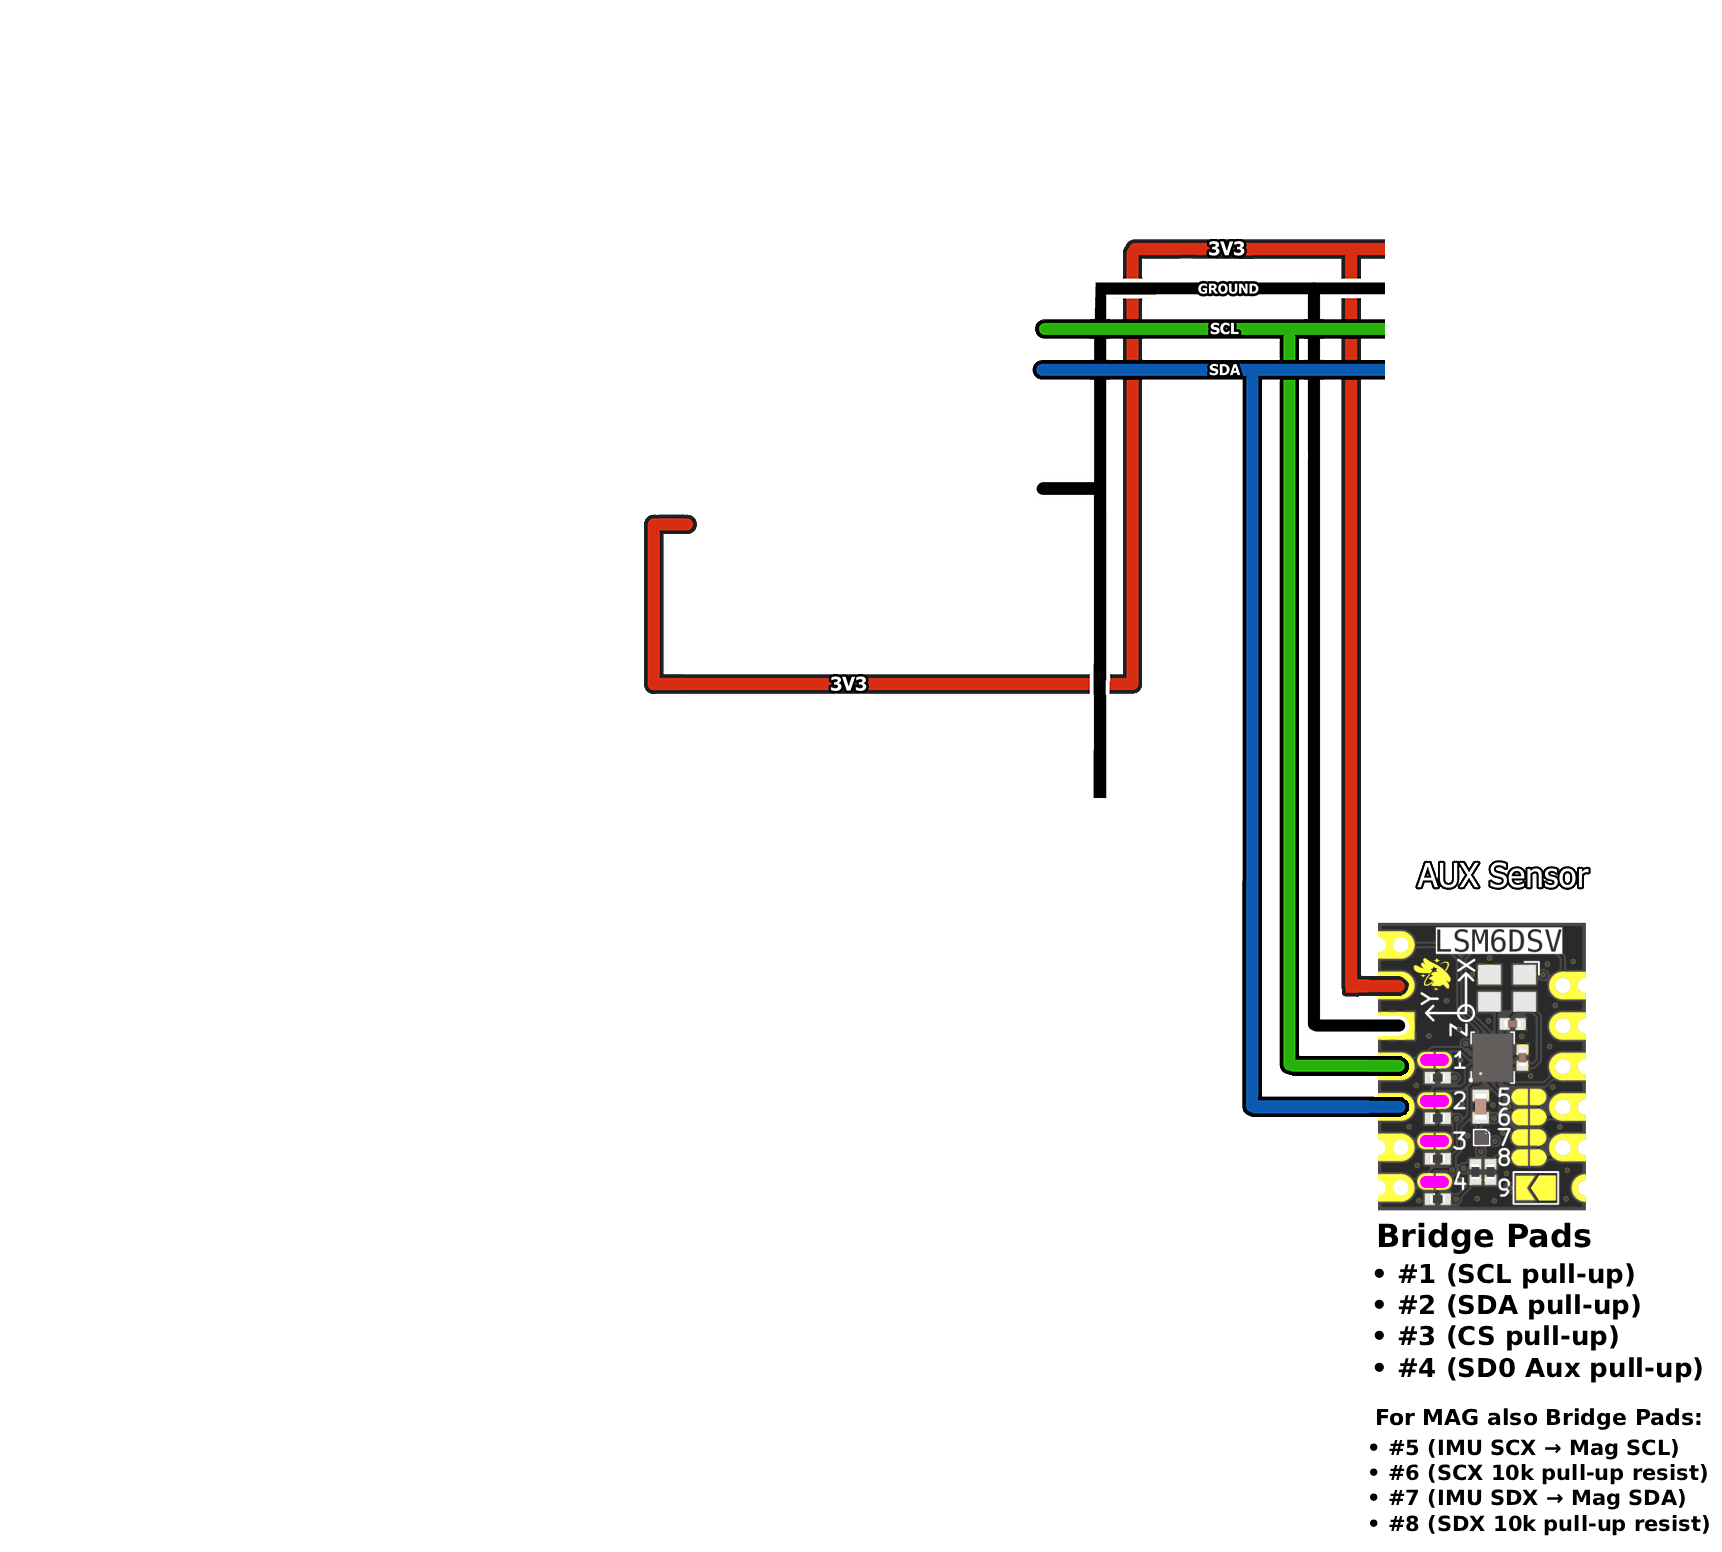
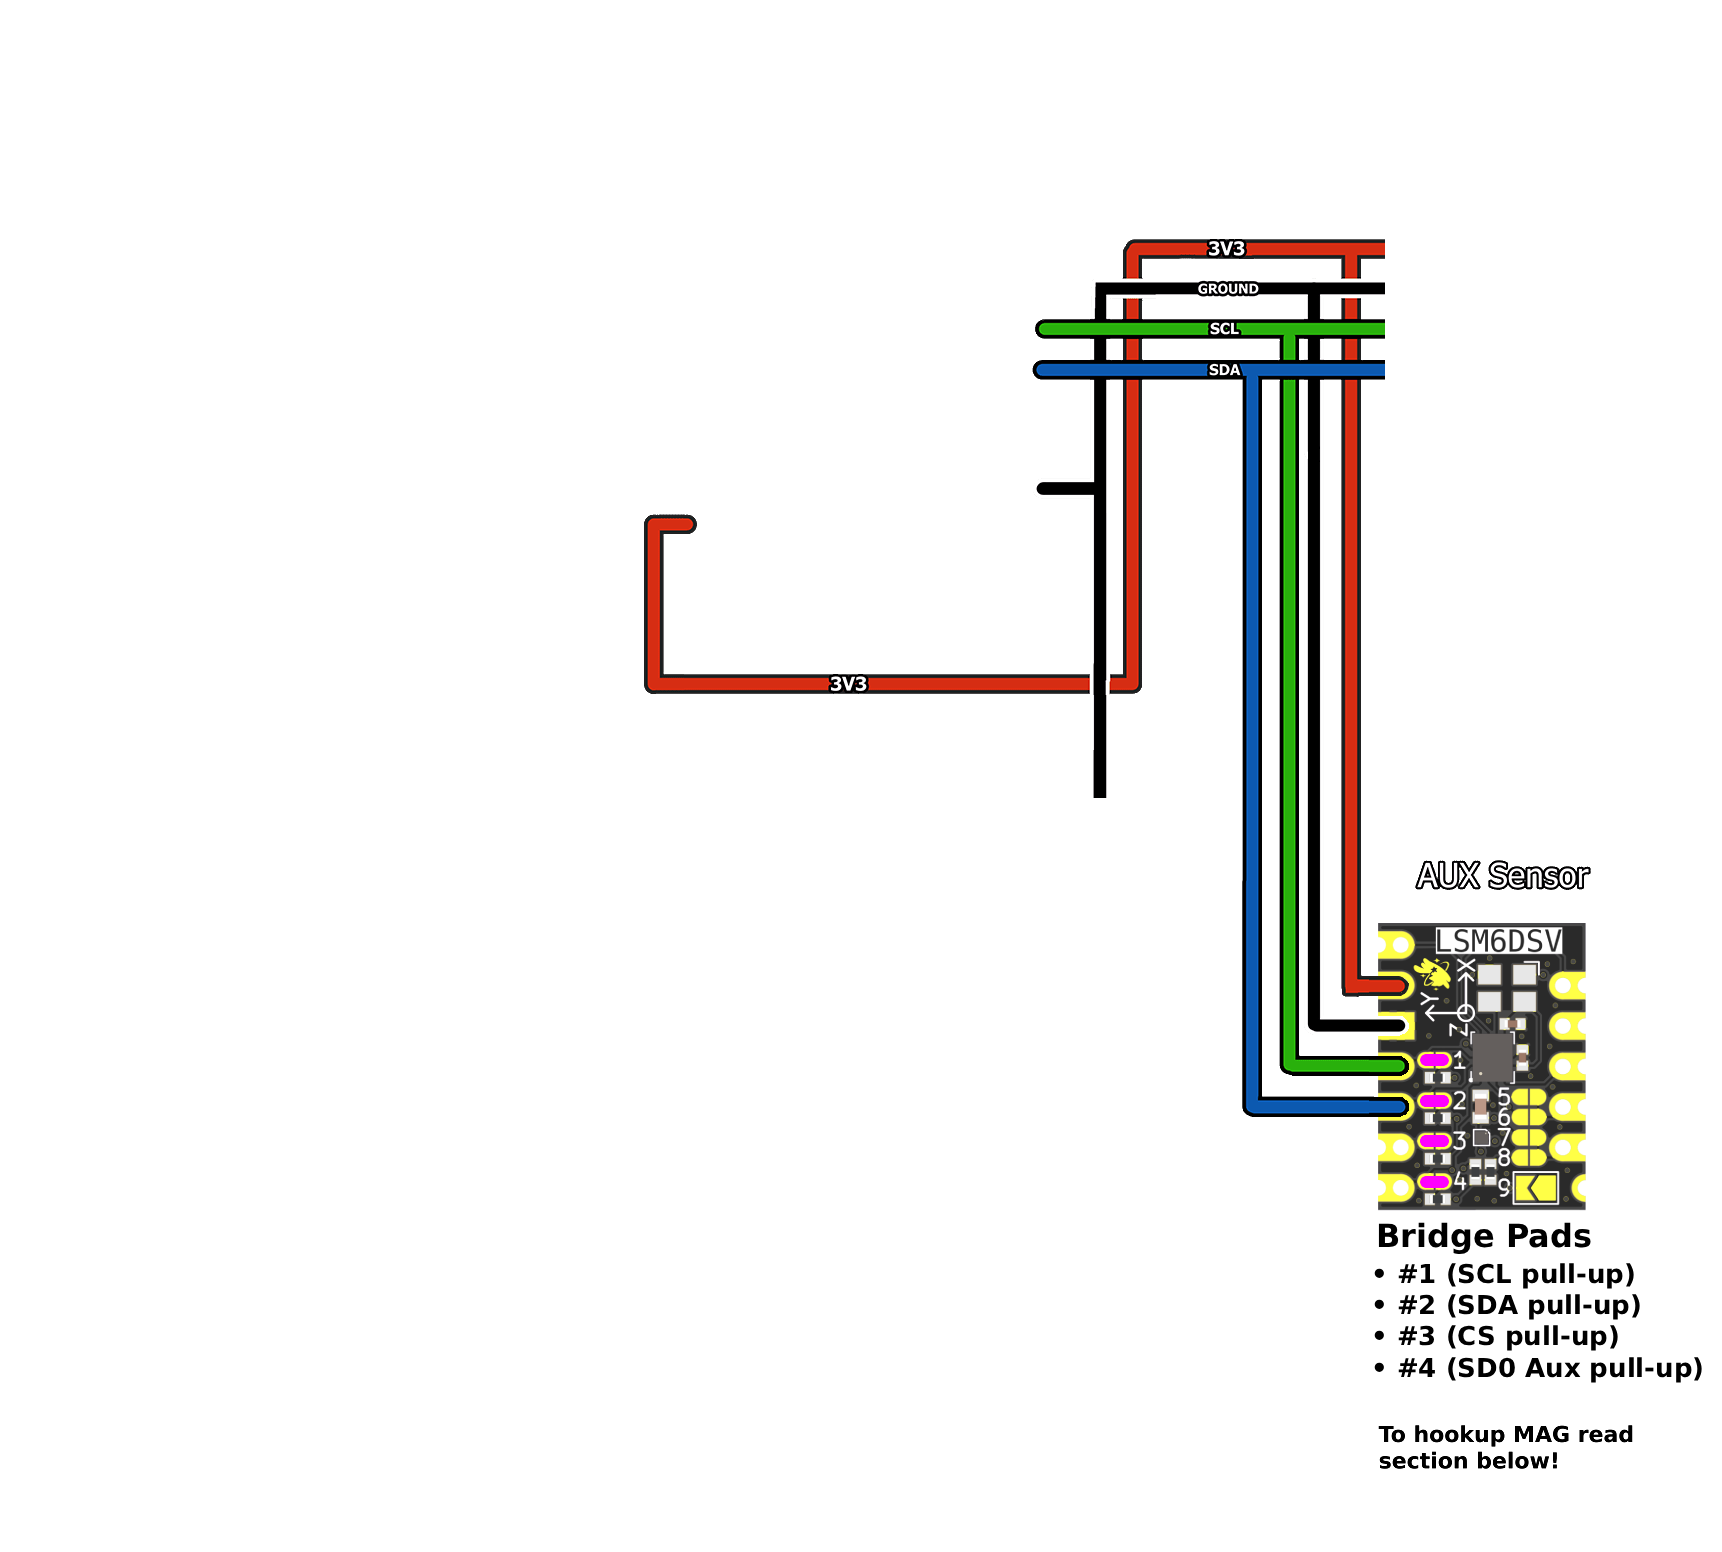
Rewrite Mag info with info about v1.2 Mumo boards (& update images)

Changed region(s): [[0.8002, 0.8969, 0.9849, 0.9897]]

diff --git a/src/diy/tracker-schematics.md b/src/diy/tracker-schematics.md
@@ -61,19 +61,23 @@ If you are using wires to assemble your trackers it is generally recommended to 
 
 Many IMU Breakout Modules provided by the community have pads that you need to bridge in order to connect the IMU to the main board. Most breakout modules have similar pads that you need to bridge, but be sure to check the schematic provided by the seller to verify it is the same as this!
 
-| Bridge Pad | Pin | When to bridge | Description |
-|:---:|:---:|:---:|:---:|
-| 1 | SCL | Using I2C | Connects 4k7R pull-up to +3v3 for the SCL pin |
-| 2 | SDA | Using I2C | Connects 4k7R pull-up to +3v3 for the SDA pin |
-| 3 | CS | Using I2C | Connects 4k7R pull-up to +3v3 for the CS pin |
-| 4 | SD0 | Using I2C (Only Aux Sensor / Extension IMU) | Connects 4k7R pull-up to +3v3 for the SD0 pin |
-| 5 | IMU SCX → Mag SCL | Using I2C & Magnetomer | Connects the magnetometer's SCL pin to the IMU's SCX pin |
-| 6 | SCX | Using I2C & Magnetomer | Connects 10kR pull-up to +3v3 for SCX |
-| 7 | IMU SDX → Mag SCA | Using I2C & Magnetomer | Connects the magnetometer's SDA pin to the IMU's SDX pin |
-| 8 | SCX | Using I2C & Magnetomer | Connects 10kR pull-up to +3v3 for SDX |
-| 9 | SD0 | Using I2C (Only Main Sensor) | Connects SD0 to GND |
+In order to communicate between the ESP and the IMU you will need to bridge a few pads in order to hook up the I2C data lines. The modules are default wired to use SPI, however SPI is currently uncommon for ESP/WiFi based Slimes.
 
-Usually, for the Main IMU you want to bridge pads 1, 2, 3, and 9. Usually for the Extension IMU you want to bridge pads 1, 2, 3, and 4. If you want to hook up the magnetometer you will also need to bridge pads 5, 6, 7, and 8 in addition to the IMU bridge pads.
+| Bridge Pad |   Pin    |               When to bridge                |                     Description                          |
+|:----------:|:--------:|:-------------------------------------------:|:--------------------------------------------------------:|
+| 1 | SCL               | Using I2C                                   | Connects 4k7R pull-up to +3v3 for the SCL pin            |
+| 2 | SDA               | Using I2C                                   | Connects 4k7R pull-up to +3v3 for the SDA pin            |
+| 3 | CS                | Using I2C                                   | Connects 4k7R pull-up to +3v3 for the CS pin             |
+| 4 | SD0 (Aux pull-up) | Using I2C (Only Aux Sensor / Extension IMU) | Connects 4k7R pull-up to +3v3 for the SD0 pin            |
+| 5 | IMU SCX → Mag SCL | Using Magnetomer                            | Connects the magnetometer's SCL pin to the IMU's SCX pin |
+| 6 | SCX               | Using Magnetomer                            | Connects 10kR pull-up to +3v3 for SCX                    |
+| 7 | IMU SDX → Mag SCA | Using Magnetomer                            | Connects the magnetometer's SDA pin to the IMU's SDX pin |
+| 8 | SCX               | Using Magnetomer                            | Connects 10kR pull-up to +3v3 for SDX                    |
+| 9 | SD0 (pull-down)   | Using I2C (Only Main Sensor)                | Connects SD0 to GND                                      |
+
+In order for the ESP to communicate with the IMU you will need to **bridge pads 1, 2, and 3** along with one other pad depending on if it is the Main IMU or if it is an Extension IMU. For the Main IMU you will need to **bridge pad 9**. For the Extension IMU you will need to **bridge pad 4**. Check the wiring diagram images above if you are confused.
+
+If you would also like to hookup the Magnetometer you might need to bridge a few more pads depending on the version of module you have. Check the bottom of your module to identify it's version, if it is v1.2 or newer then the Magnetometer is already hooked up by default and you do not need to bridge any additional pads. If you have an older module version or it does not show a version number then you will need to **bridge pads 5-8** in order to hook up the Magnetometer.
 
 | ICM-45686 (SlimeVR) | LSM6DSV (Moffshop) |
 | --- | --- |
